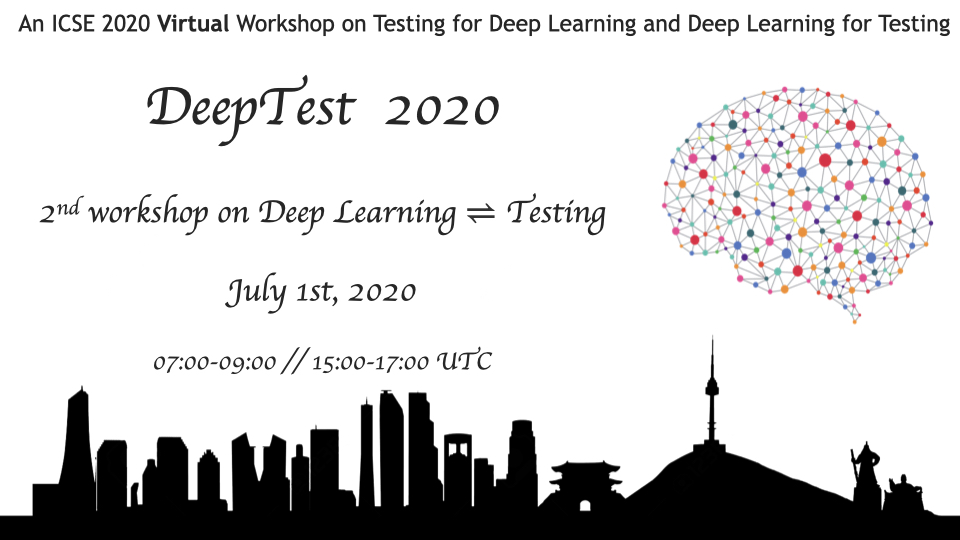
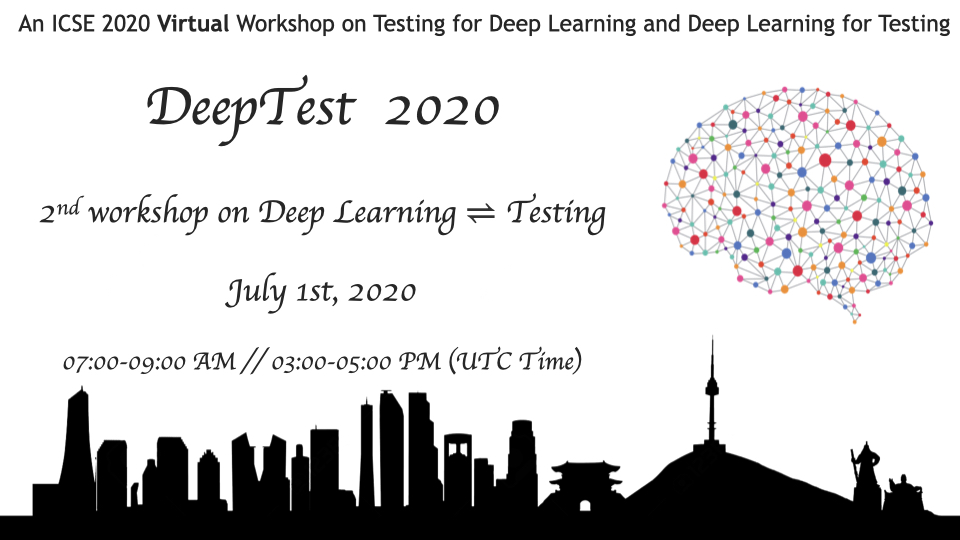
fixed time

Changed region(s): [[0.0625, 0.6519, 0.625, 0.7111]]

diff --git a/index.html b/index.html
@@ -37,7 +37,7 @@
  	<span class="gmw_" style="font-family: verdana, geneva, sans-serif;"><span class="grw_">
 
 
-<p class="border">We are glad to announce that DeepTest 2020 will take place <b>online</b> on the Zoom platform on <font color="red">Wednesday, July 1, 2020</font>. There will be two thematic sessions from <font color="red">7 AM to 9 AM UTC Time</font>, and from <font color="red">15 PM to 17 PM UTC Time</font>, with discussions focusing on topics covered in the accepted papers, along with panels with influential experts, and two exciting keynotes. 
+<p class="border">We are glad to announce that DeepTest 2020 will take place <b>online</b> on the Zoom platform on <font color="red">Wednesday, July 1, 2020</font>. There will be two thematic sessions from <font color="red">7 AM to 9 AM UTC Time</font>, and from <font color="red">3 PM to 5 PM UTC Time</font>, with discussions focusing on topics covered in the accepted papers, along with panels with influential experts, and two exciting keynotes. 
 </p> 
 
 
